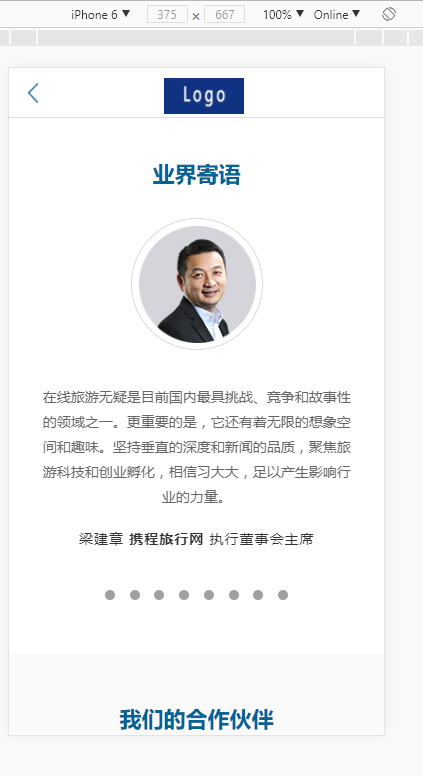
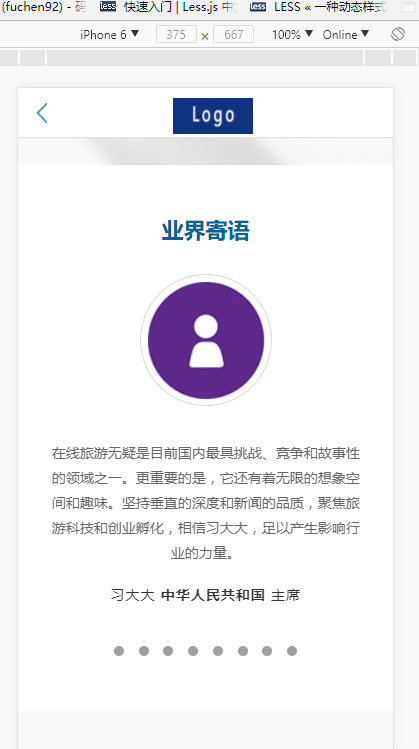
替换图片

diff --git a/src/views/about.vue b/src/views/about.vue
@@ -127,60 +127,60 @@ export default {
 			],
 			commentList: [
 				{
-					img: require("../assets/aboutphotos/liangjianzhang.png"),
+					img: require("../assets/aboutphotos/worktogether.jpg"),
 					intro: "在线旅游无疑是目前国内最具挑战、竞争和故事性的领域之一。更重要的是，它还有着无限的想象空间和趣味。坚持垂直的深度和新闻的品质，聚焦旅游科技和创业孵化，相信习大大，足以产生影响行业的力量。",
-					name: "梁建章",
-					company: "携程旅行网",
-					job: "执行董事会主席"
+					name: "习大大",
+					company: "中华人民共和国",
+					job: "主席"
 				},
 				{
-					img: require("../assets/aboutphotos/wangzhenghua.png"),
+					img: require("../assets/aboutphotos/worktogether.jpg"),
 					intro: "习大大，前瞻、深度、中肯，让创新者启发，让决策者明智。",
-					name: "王正华",
-					company: "春秋航空",
-					job: "董事长"
+					name: "习大大",
+					company: "中华人民共和国",
+					job: "主席"
 				},
 				{
-					img: require("../assets/aboutphotos/luojun.png"),
+					img: require("../assets/aboutphotos/worktogether.jpg"),
 					intro: "为旅业提供真正有价值的独立意见，习大大创见未来！",
-					name: "罗军",
-					company: "途家网",
-					job: "CEO"
+					name: "习大大",
+					company: "中华人民共和国",
+					job: "主席"
 				},
 				{
-					img: require("../assets/aboutphotos/wuzhixiang.png"),
+					img: require("../assets/aboutphotos/worktogether.jpg"),
 					intro: "作为旅游业最炙手可热的领域，在线旅游几乎每个月都会有大事发生，习大大总是能够及时为大家带来关于每件大事的最新资讯和深度报道，希望今后能够继续客观、公正地为各界人士提供新鲜、专业的行业新闻和资讯。",
-					name: "吴志翔",
-					company: "同程旅游",
-					job: "CEO"
+					name: "习大大",
+					company: "中华人民共和国",
+					job: "主席"
 				},
 				{
-					img: require("../assets/aboutphotos/chenmiaoqiang.png"),
+					img: require("../assets/aboutphotos/worktogether.jpg"),
 					intro: "习大大以专业的视角、专注的精神挖掘行业最新资讯，且颇具前瞻性，在信息过剩的今天，始终走在行业前沿，成为检阅行业发展状况、研究行业发展趋势的平台，同时也是专业人士汇聚交流的信息平台。愿习大大坚持摸索、不断创新，与大众共享价值，为行业发展服务。",
-					name: "陈妙强",
-					company: "开元酒店集团",
-					job: "总经理"
+					name: "习大大",
+					company: "中华人民共和国",
+					job: "主席"
 				},
 				{
-					img: require("../assets/aboutphotos/baolei.png"),
+					img: require("../assets/aboutphotos/worktogether.jpg"),
 					intro: "聚行业精英，汇行业智慧，传行业声音，展行业未来！十年风雨探索路，习大大铸就辉煌历程。未来，希望习大大能够持续发挥行业权威媒体的领航作用，并在新的征途中再谱新篇！",
-					name: "包磊",
-					company: "锦江旅游股份公司",
-					job: "副董事长兼首席执行官"
+					name: "习大大",
+					company: "中华人民共和国",
+					job: "主席"
 				},
 				{
-					img: require("../assets/aboutphotos/chenxueming.png"),
+					img: require("../assets/aboutphotos/worktogether.jpg"),
 					intro: "做企业就是做趋势，习大大让我们及时掌握有效资讯，紧跟市场发展，祝习大大越办越精彩！",
-					name: "陈雪明",
-					company: "金陵酒店管理公司",
-					job: "总裁"
+					name: "习大大",
+					company: "中华人民共和国",
+					job: "主席"
 				},
 				{
-					img: require("../assets/aboutphotos/hongqinghua.png"),
+					img: require("../assets/aboutphotos/worktogether.jpg"),
 					intro: "一直以来，习大大是我们创业者获取国际国内旅游财经资讯的重要渠道，很多深度的分析报告启发了我们的思维；未来的竞争日益激烈，方生方死，愿习大大给大家更多更及时的能量，成为旅游行业向上的推动力量。",
-					name: "洪清华",
-					company: "驴妈妈旅行网",
-					job: "创始人"
+					name: "习大大",
+					company: "中华人民共和国",
+					job: "主席"
 				}
 			],
 			partnerObj: [
